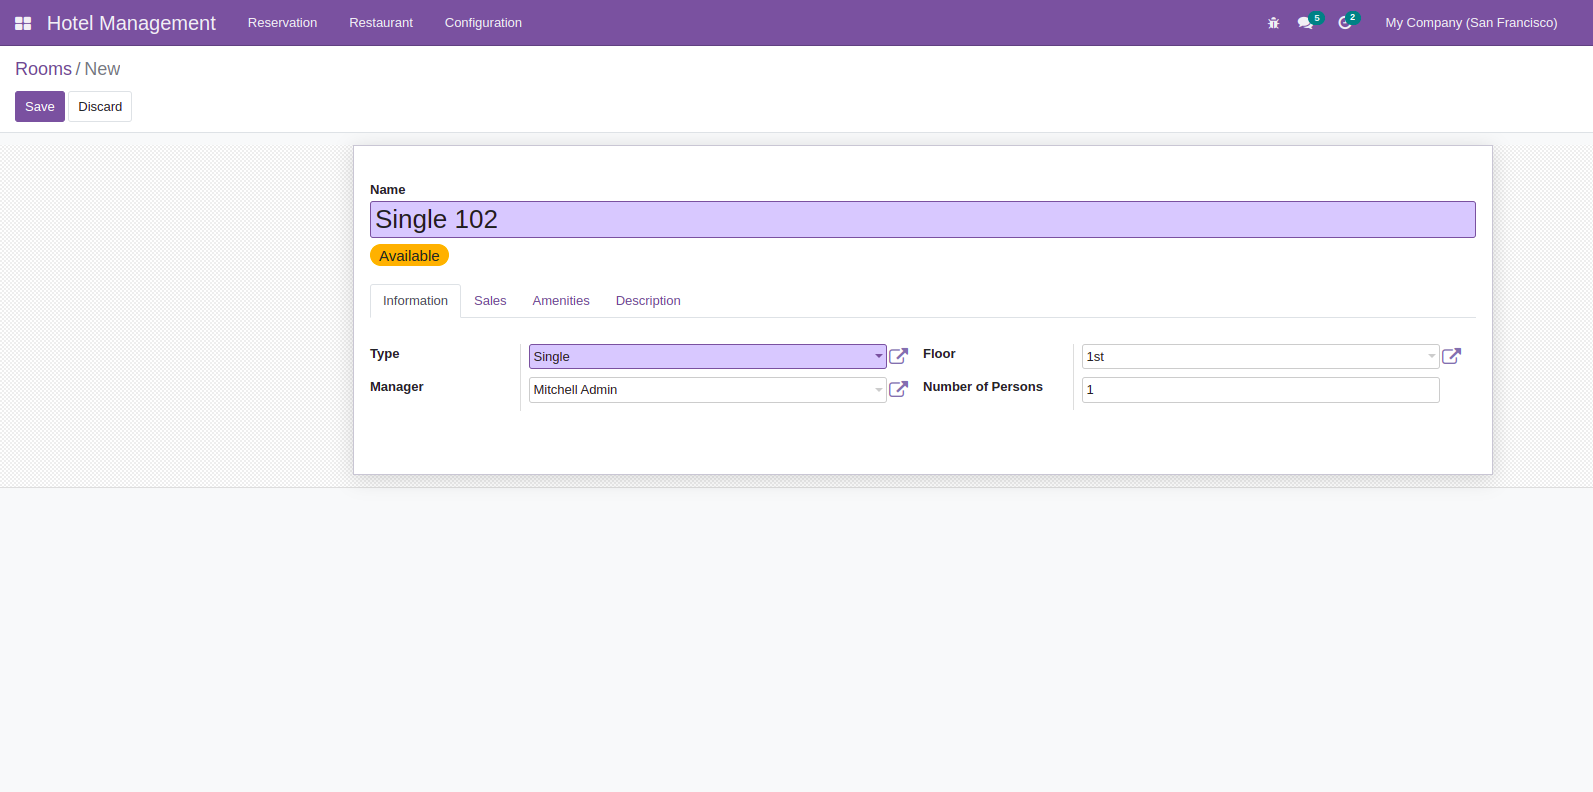
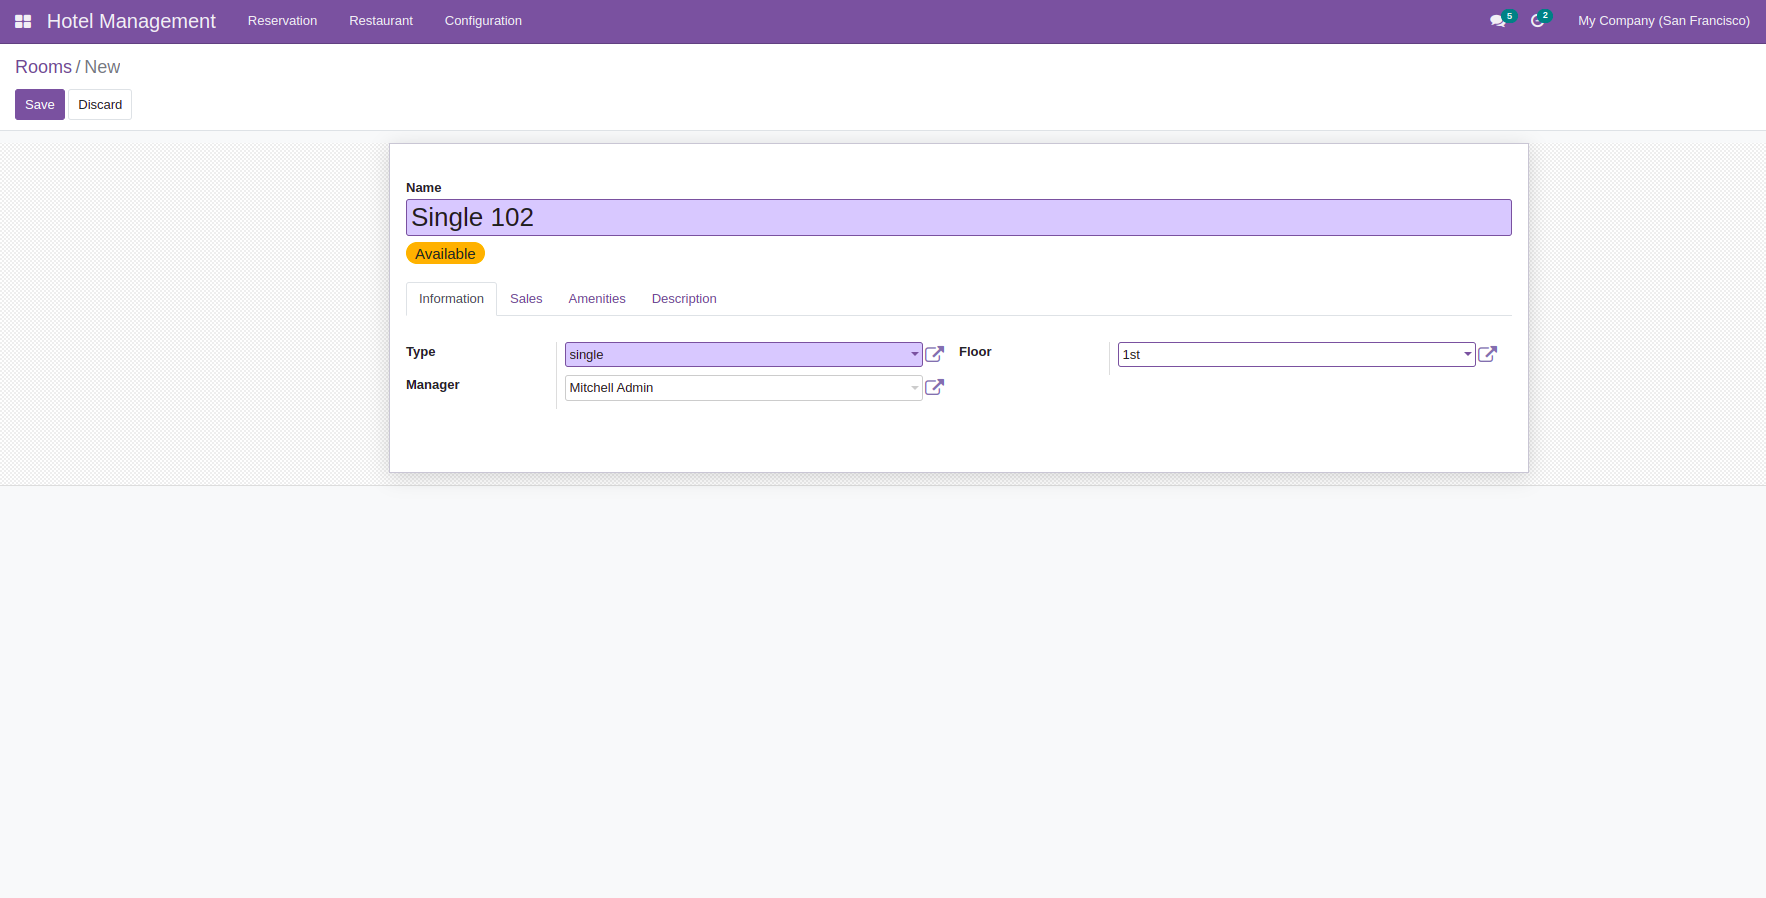
[FIX] Bug Fixed 'hotel_management_odoo'

diff --git a/hotel_management_odoo/models/room_reservation.py b/hotel_management_odoo/models/room_reservation.py
@@ -43,7 +43,7 @@ class Reservation(models.Model):
 
     name = fields.Char(string='Booking Reference', required=True, copy=False, readonly=True,
                        default=lambda self: _('New'))
-    num_person = fields.Integer(string='Number of Persons', default=1)
+    num_person = fields.Integer(string='Number of Persons', default=1,required=True)
     reservation_line_ids = fields.One2many('room.reservation.line', "reservation_id", string='Booking Info')
     state = fields.Selection([('draft', 'Draft'), ('confirm',
                                                    'Confirm'), ('occupied', 'Occupied'), ('done', 'Done'),
@@ -69,7 +69,12 @@ class Reservation(models.Model):
         if vals.get('name', _('New')) == _('New'):
             vals['name'] = self.env['ir.sequence'].next_by_code(
                 'room.reservation') or _('New')
-
+        persons = 0
+        for rec in vals['reservation_line_ids']:
+            room_type = self.env['room.types'].sudo().search([('categ_id','=',rec[2]['type_id'])])
+            persons += room_type.num_person
+        if vals.get('num_person') > persons:
+            raise ValidationError(_("Number of persons out of limit!"))
         return super(Reservation, self).create(vals)
 
 

diff --git a/hotel_management_odoo/models/res_settings.py b/hotel_management_odoo/models/res_settings.py
@@ -50,7 +50,6 @@ class Rooms(models.Model):
     status = fields.Selection([("available", "Available"), ("occupied", "Occupied"), ('book', 'Booked')],
                               default="available")
     manager_id = fields.Many2one('res.users', string='Manager')
-    num_person = fields.Integer(string='Number of Persons')
 
     @api.model
     def create(self, vals):
@@ -77,6 +76,7 @@ class RoomTypes(models.Model):
 
     room_type_id = fields.Many2one("room.types", "Types")
     categ_id = fields.Many2one('product.category', "Product Category", delegate=True, copy=False, ondelete="cascade")
+    num_person = fields.Integer(string='Number of persons',required=True)
 
     @api.model
     def create(self, vals):

diff --git a/hotel_management_odoo/__manifest__.py b/hotel_management_odoo/__manifest__.py
@@ -21,8 +21,8 @@
 #############################################################################
 
 {
-    'name': 'Hotel Management V15',
-    'version': '15.0.1.0.0',
+    'name': 'Hotel Management',
+    'version': '15.0.1.0.1',
     'summary': 'Hotel Management Application for odoo 15',
     'description': """The module helps you to manage rooms,amenities,services,restaurants.
                       End Users can book rooms and reserve foods from hotel restaurant.""",

diff --git a/hotel_management_odoo/doc/RELEASE_NOTES.md b/hotel_management_odoo/doc/RELEASE_NOTES.md
@@ -4,3 +4,8 @@
 #### Version 15.0.1.0.0
 ##### ADD
 - Initial Commit for hotel_management_odoo
+
+#### 2.8.2022
+#### Version 15.0.1.0.1
+#### UPDT
+- room reservation-number of persons validation issue
